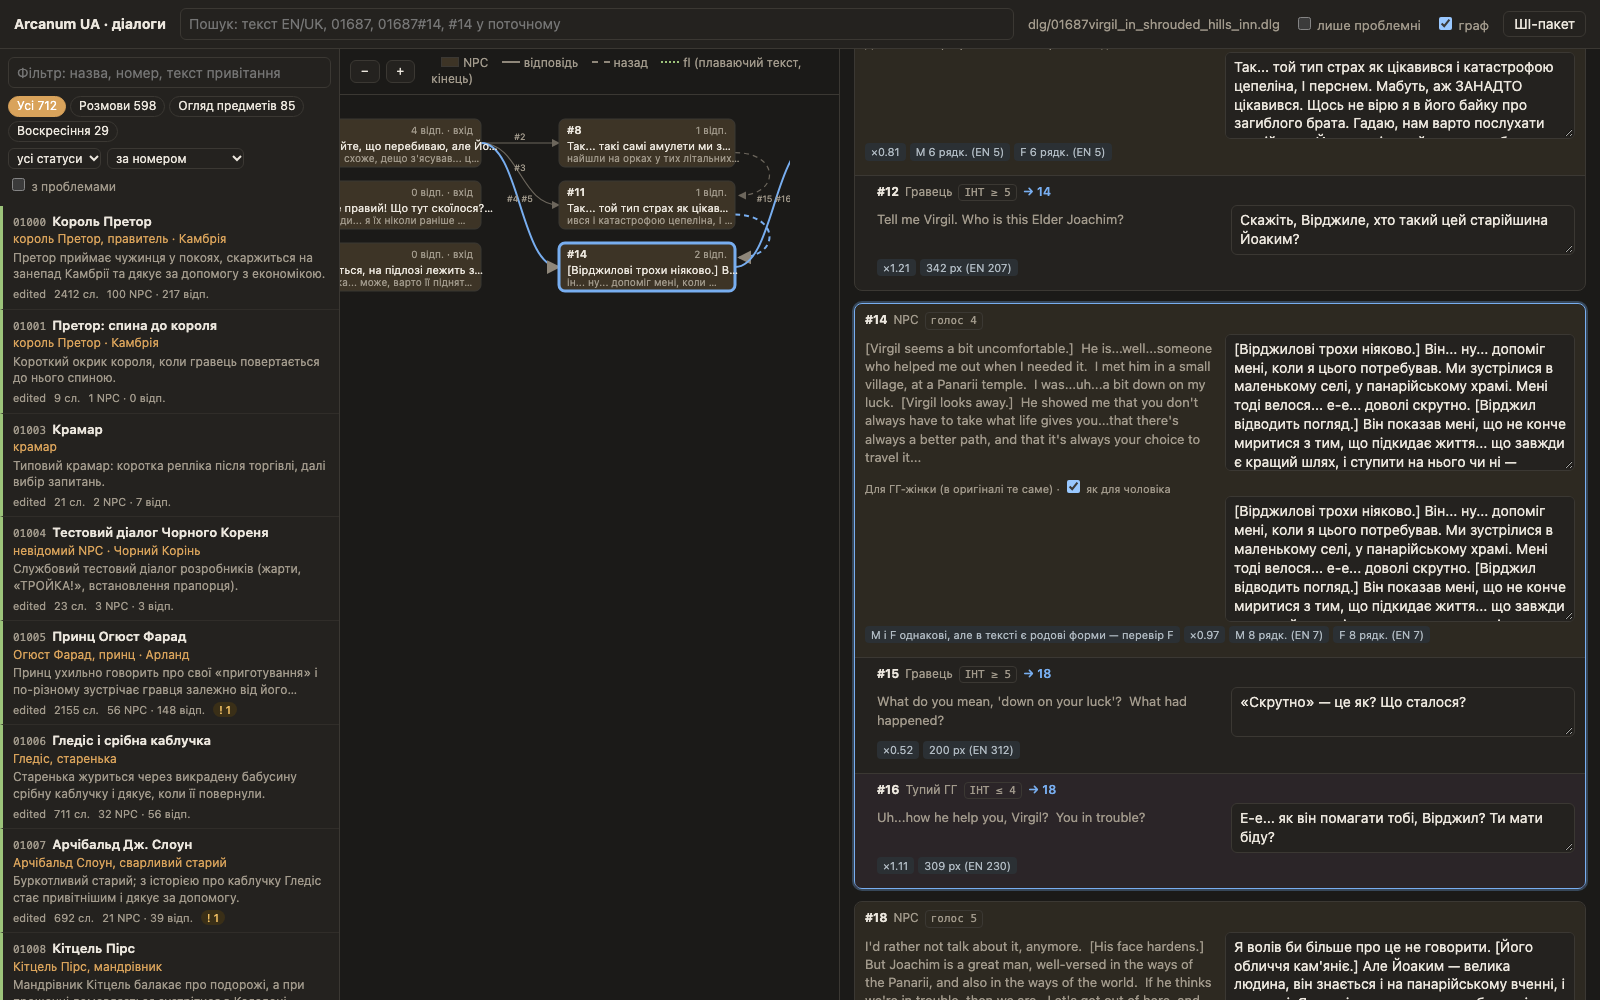
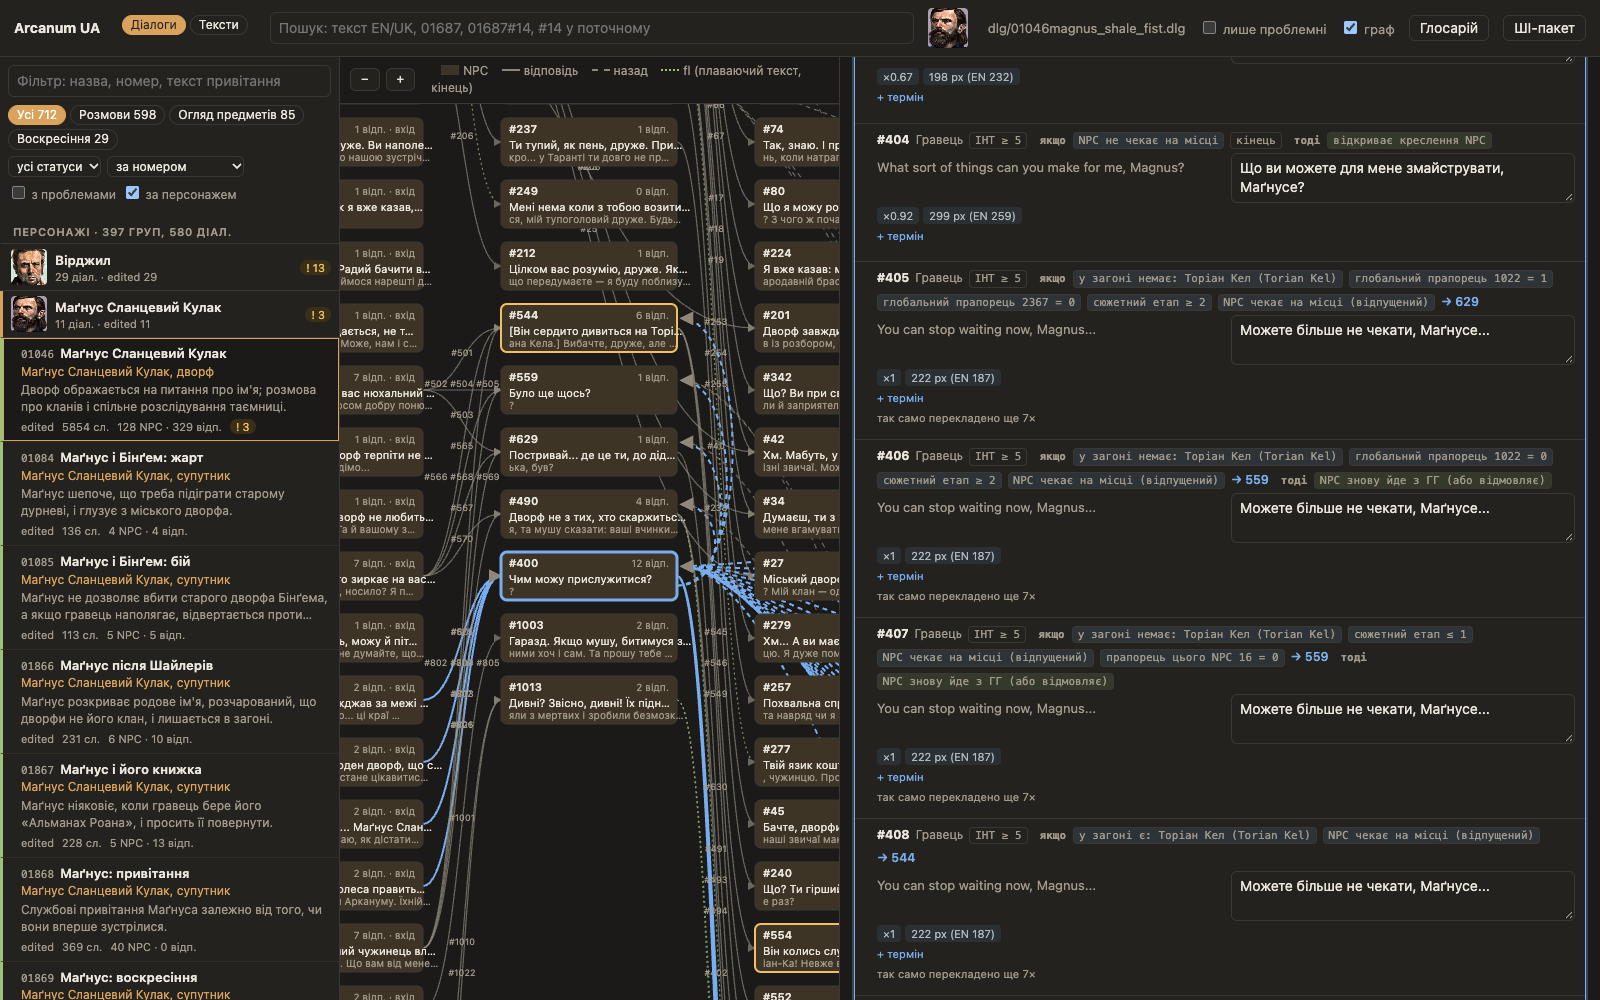
docs: editor screenshots — speaker groups, readable conditions, «Тексти» with in-game preview

Changed region(s): [[0.0, 0.0, 1.0, 1.0], [0.75, 0.806, 0.9688, 0.899], [0.9688, 0.868, 1.0, 0.899]]

diff --git a/tools/editor/style.css b/tools/editor/style.css
@@ -219,3 +219,4 @@ body.mode-mes label.toggle:has(#only-problems), body.mode-mes label.toggle:has(#
 .pv figure { margin: 0; }
 .pv img { display: block; image-rendering: pixelated; max-width: 100%; border-radius: 3px; }
 .pv figcaption { font-size: 11px; color: var(--muted); margin-top: 2px; }
+body.mode-mes #cards { width: auto; flex: 1; }

diff --git a/README.md b/README.md
@@ -98,6 +98,8 @@ python3 tools/editor.py        # -> http://127.0.0.1:8765
   репліки) з тими самими перевірками. Біля запису — де він показується в грі і прев'ю: рядок
   намальовано шрифтом гри з переносом рушія в рамці реального розміру, те, що не влазить, — червоним
   (`tools/textpreview.py`). Посилання на запис: `#mes/description.mes:11138`.
+
+![Редактор: тексти з прев'ю у шрифті гри](docs/screenshots/editor-texts.png)
 - «ШІ-пакет»: контекст для іншої мовної моделі (записи, сусідні репліки, глосарій, стайлгайд,
   обмеження) і імпорт її відповіді лише через diff із поштучним прийняттям.
 
